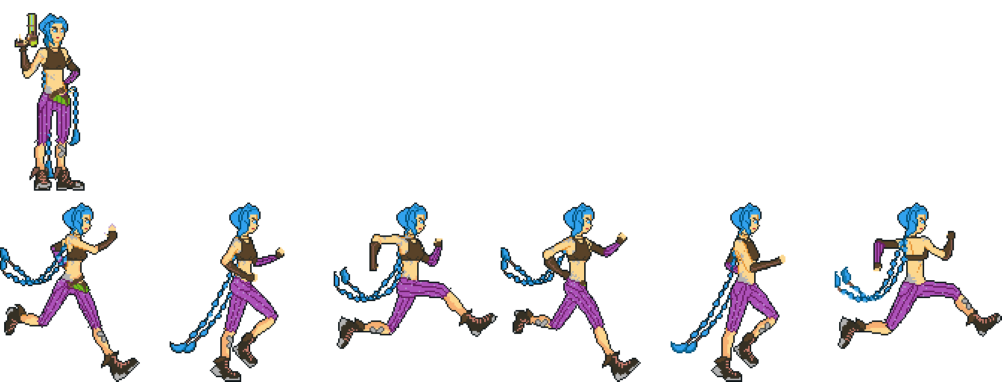
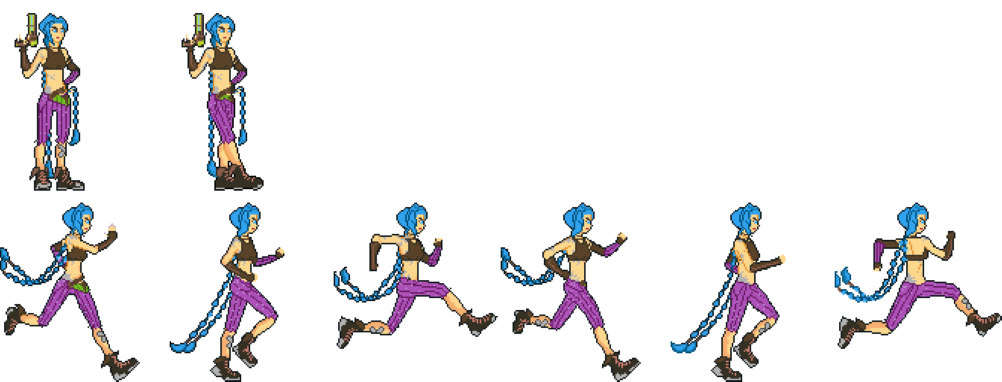
update camera pan feature

Changed region(s): [[0.1856, 0.0288, 0.2784, 0.5183]]

diff --git a/src/entity.cpp b/src/entity.cpp
@@ -26,16 +26,14 @@ void Jinx::init() {
 
 void Jinx::update() {
 	if (IsKeyPressed(KEY_RIGHT)) {
-		;
-	}
-	if (IsKeyDown(KEY_RIGHT)) {
 		mPosition.x += 10.0f;
 
-		if (mCurrState != State::RUNNING) {
-			mCurrState = State::RUNNING;
+		if (mCurrState != State::WALKING) {
+			mCurrState = State::WALKING;
 			mFrameRec.x = 0.0f;
-			mFrameRec.y = mTexture.height / 2.0f;
-			mFramesCount = 6;
+			mFrameRec.y = 0.0f;
+			mFramesCount = 2;
+			mSheetWidth = mTexture.width * mFramesCount / 6.0f;
 			mCurrFrame = 0;
 		}
 
@@ -48,7 +46,49 @@ void Jinx::update() {
 
 		mFrameRec.width = (mFrameRec.width < 0 ? mFrameRec.width * -1.0f : mFrameRec.width);
 	}
-	if (IsKeyDown(KEY_LEFT)) {
+	else if (IsKeyDown(KEY_RIGHT)) {
+		mPosition.x += 10.0f;
+	
+		if (mCurrState != State::RUNNING) {
+			mCurrState = State::RUNNING;
+			mFrameRec.x = 0.0f;
+			mFrameRec.y = mTexture.height / 2.0f;
+			mFramesCount = 6;
+			mSheetWidth = mTexture.width;
+			mCurrFrame = 0;
+		}
+	
+		entityCam.mTarget.x += entityCam.mPanSpeed.x;
+		if (entityCam.mTarget.x > mPosition.x + 300.0f) {
+			entityCam.mTarget.x = mPosition.x + 300.0f;
+		}
+	
+		entityCam.mTarget = { entityCam.mTarget.x, mPosition.y };
+	
+		mFrameRec.width = (mFrameRec.width < 0 ? mFrameRec.width * -1.0f : mFrameRec.width);
+	}
+	if (IsKeyPressed(KEY_LEFT)) {
+		mPosition.x -= 10.0f;
+
+		if (mCurrState != State::WALKING) {
+			mCurrState = State::WALKING;
+			mFrameRec.x = 0.0f;
+			mFrameRec.y = 0.0f;
+			mFramesCount = 2;
+			mSheetWidth = mTexture.width * mFramesCount / 6.0f;
+			mCurrFrame = 0;
+		}
+
+		entityCam.mTarget.x -= entityCam.mPanSpeed.x;
+		if (entityCam.mTarget.x < mPosition.x - 70.0f) {
+			entityCam.mTarget.x = mPosition.x - 70.0f;
+		}
+
+		entityCam.mTarget = { entityCam.mTarget.x, mPosition.y };
+
+		mFrameRec.width = (mFrameRec.width < 0 ? mFrameRec.width : mFrameRec.width * -1.0f);
+	}
+	else if (IsKeyDown(KEY_LEFT)) {
 		mPosition.x -= 10.0f;
 
 		if (mCurrState != State::RUNNING) {
@@ -56,12 +96,13 @@ void Jinx::update() {
 			mFrameRec.x = 0.0f;
 			mFrameRec.y = mTexture.height / 2.0f;
 			mFramesCount = 6;
+			mSheetWidth = mTexture.width;
 			mCurrFrame = 0;
 		}
 
 		entityCam.mTarget.x -= entityCam.mPanSpeed.x;
-		if (entityCam.mTarget.x < mPosition.x - 70.0f) {
-			entityCam.mTarget.x = mPosition.x - 70.0f;
+		if (entityCam.mTarget.x < mPosition.x - 123.0f) {
+			entityCam.mTarget.x = mPosition.x - 123.0f;
 		}
 
 		entityCam.mTarget = { entityCam.mTarget.x, mPosition.y };
@@ -94,7 +135,7 @@ void Jinx::update() {
 		mCurrFrame++;
 
 		if (mCurrFrame > (mFramesCount - 1)) mCurrFrame = 0;
-		mFrameRec.x = (float)mCurrFrame * (float)mTexture.width / mFramesCount;
+		mFrameRec.x = (float)mCurrFrame * (float)mSheetWidth / mFramesCount;
 	}
 }
 

diff --git a/include/entity.h b/include/entity.h
@@ -49,8 +49,11 @@ struct Jinx : Entity {
 	void draw() override;
 	~Jinx();
 
+
+
 	// Member variables
 	size_t mFramesCount;
+	size_t mSheetWidth;
 	State mCurrState;
 	Direction mCurrDir;
 	Direction mPrevDir;
